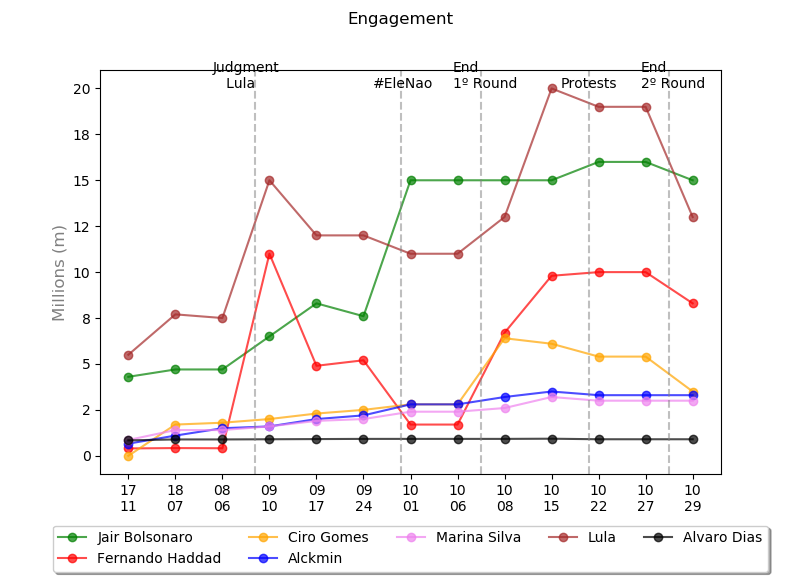
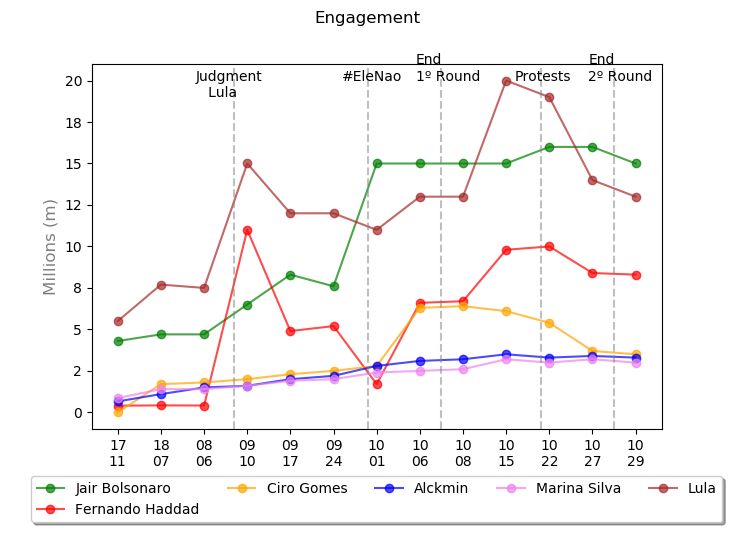
correlacao

diff --git a/Graphics/Code/graphic.py b/Graphics/Code/graphic.py
@@ -226,13 +226,14 @@ def cal_dataframe_error(vector_dFrame, v_facebook, v_ibope, v_dfolha, label):
     return vector_dFrame
 
 def plot_graph(name, data_frame, line, col, range_ini, range_fim, count_x, firstitle, set_subtitle, all_subtitle, set_result, figsizeX, figsizeY,
- legend_posX, legend_posY, plot_error = True, plot_event = True, hspace=0):    
+ legend_posX, legend_posY, plot_error = True, plot_event = True, hspace=0, v_range_ini = [], v_range_fim = []):    
     
     fig = plt.figure(figsize=(figsizeX, figsizeY))    
     set_result_aux = set_result
     subtitle_aux = set_subtitle    
     text_1Round = "1º round"
-    text_2Round = "2º round"    
+    text_2Round = "2º round"   
+    count_line_to_axis = 0 
     count_subtitle = 0    
     legend_result = ""
     vector_dFrame = []
@@ -244,7 +245,11 @@ def plot_graph(name, data_frame, line, col, range_ini, range_fim, count_x, first
    
     for d in data_frame:
         G = fig.add_subplot(line, col, pos)
-        
+
+        if len(v_range_fim) > 0:
+            range_fim = v_range_fim[pos - 1]
+            range_ini = v_range_ini[pos - 1]
+
         for g in d.drop('x', axis=1):               
             if(g == 'calc_1round_pool'):
                 if(d[g].values[0] != 0 and d[g].values[0] != -100):
@@ -315,11 +320,17 @@ def plot_graph(name, data_frame, line, col, range_ini, range_fim, count_x, first
         count_subtitle += 1
         if(count_subtitle == col):
             set_subtitle = subtitle_aux
-            count_subtitle = 0
+            count_subtitle = 0            
+            count_line_to_axis =+ 1
         
+      
+        # if len(v_scale) > 0:
+        #     G.set_ylim(range_ini,v_scale[count_line_to_axis])
+        # else:
         G.set_ylim(range_ini,range_fim)
+
         set_result_aux = True
-        pos += 1 
+        pos += 1         
             
     if(hspace != 0):
         plt.subplots_adjust(hspace=hspace)
@@ -348,24 +359,24 @@ def plot_gender():
 def plot_region():
         
     count_x = len(models.data_reader.candidates[i_bolsonaro].facebook_sul) 
+    
+    error_1 = plot_graph("region_bolsonaro.png", GFrame.Region.data_frame_bolsonaro, 2, 2, 10, 60, count_x, "Jair Bolsonaro", False, True, True, 18, 10, -0.1, -0.19, True, True, 0, [40, 10, 5, 5], [65, 40, 30, 30])
+    plot_graph("region_bolsonaro_error.png", error_1, 2, 2, -50, 90, count_x, "Jair Bolsonaro - Variation Polls", False, True, True, 18, 10, -0.1, -0.19, False, False, 0, [-20, -20, -40, -40], [30, 80, 30, 40] )
 
-    error_1 = plot_graph("region_bolsonaro.png", GFrame.Region.data_frame_bolsonaro, 2, 2, 5, 60, count_x, "Jair Bolsonaro", False, True, True, 18, 10, -0.1, -0.19)
-    plot_graph("region_bolsonaro_error.png", error_1, 2, 2, -50, 90, count_x, "Jair Bolsonaro - Variation Polls", False, True, True, 18, 10, -0.1, -0.19, False, False)
+    error_2 = plot_graph("region_haddad.png", GFrame.Region.data_frame_haddad, 2, 2, 0, 90, count_x, "Fernando Haddad", False, True, True, 18, 10, -0.1, -0.19, True, True, 0, [20, 10, 0, 0], [90, 60, 25, 25])
+    plot_graph("region_haddad_error.png", error_2, 2, 2, -75, 90, count_x, "Fernando Haddad - Variation Polls", False, True, True, 18, 10, -0.1, -0.19, False, False, 0, [-40, -60, -50, -50], [85, 40, 60, 60])
 
-    error_2 = plot_graph("region_haddad.png", GFrame.Region.data_frame_haddad, 2, 2, 5, 90, count_x, "Fernando Haddad", False, True, True, 18, 10, -0.1, -0.19)
-    plot_graph("region_haddad_error.png", error_2, 2, 2, -75, 90, count_x, "Fernando Haddad - Variation Polls", False, True, True, 18, 10, -0.1, -0.19, False, False)
+    error_3 = plot_graph("region_ciro.png", GFrame.Region.data_frame_ciro, 2, 2, 0, 60, count_x, "Ciro Gomes", False, True, True, 18, 10, -0.1, -0.19, True, True, 0, [25, 20, 0, 0], [60, 50, 25, 25])
+    plot_graph("region_ciro_error.png", error_3, 2, 2, -50, 125, count_x, "Ciro Gomes - Variation Polls", False, True, True, 18, 10, -0.1, -0.19, False, False, 0, [-20, -40, -20, -20], [80, 30, 80, 120])
 
-    error_3 = plot_graph("region_ciro.png", GFrame.Region.data_frame_ciro, 2, 2, 5, 60, count_x, "Ciro Gomes", False, True, True, 18, 10, -0.1, -0.19)
-    plot_graph("region_ciro_error.png", error_3, 2, 2, -50, 125, count_x, "Ciro Gomes - Variation Polls", False, True, True, 18, 10, -0.1, -0.19, False, False)
+    error_4 = plot_graph("region_marina.png", GFrame.Region.data_frame_marina, 2, 2, 5, 60, count_x, "Marina Silva", False, True, True, 18, 10, -0.1, -0.19, True, True, 0, [30, 20, 10, 5], [60, 45, 35, 30])
+    plot_graph("region_marina_error.png", error_4, 2, 2, -50, 150, count_x, "Marina Silva - Variation Polls", False, True, True, 18, 10, -0.1, -0.19, False, False, 0, [-20, -40, -40, -15], [40, 30, 50, 140])
 
-    error_4 = plot_graph("region_marina.png", GFrame.Region.data_frame_marina, 2, 2, 5, 60, count_x, "Marina Silva", False, True, True, 18, 10, -0.1, -0.19)
-    plot_graph("region_marina_error.png", error_4, 2, 2, -50, 150, count_x, "Marina Silva - Variation Polls", False, True, True, 18, 10, -0.1, -0.19, False, False)
+    error_5 = plot_graph("region_alckmin.png", GFrame.Region.data_frame_alckmin, 2, 2, 0, 85, count_x, "Geraldo Alckmin", False, True, True, 18, 10, -0.1, -0.19, True, True, 0, [30, 5, 0, 0], [85, 40, 25, 25])
+    plot_graph("region_alckmin_error.png", error_5, 2, 2, -50, 100, count_x, "Geraldo Alckmin - Variation Polls", False, True, True, 18, 10, -0.1, -0.19, False, False, 0, [-10, -40, -40, -25], [30, 100, 30, 100])
 
-    error_5 = plot_graph("region_alckmin.png", GFrame.Region.data_frame_alckmin, 2, 2, 5, 85, count_x, "Geraldo Alckmin", False, True, True, 18, 10, -0.1, -0.19)
-    plot_graph("region_alckmin_error.png", error_5, 2, 2, -50, 100, count_x, "Geraldo Alckmin - Variation Polls", False, True, True, 18, 10, -0.1, -0.19, False, False)
-
-    error_6 = plot_graph("region_alvaro.png", GFrame.Region.data_frame_alvaro, 2, 2, 0, 70, count_x, "Alvaro Dias", False, True, True, 18, 10, -0.1, -0.19)
-    plot_graph("region_alvaro_error.png", error_6, 2, 2, -50, 200, count_x, "Alvaro Dias - Variation Polls", False, True, True, 18, 10, -0.1, -0.19, False, False)
+    error_6 = plot_graph("region_alvaro.png", GFrame.Region.data_frame_alvaro, 2, 2, 0, 70, count_x, "Alvaro Dias", False, True, True, 18, 10, -0.1, -0.19, True, True, 0, [10, 0, 0, 10], [60, 40, 30, 70])
+    plot_graph("region_alvaro_error.png", error_6, 2, 2, -50, 200, count_x, "Alvaro Dias - Variation Polls", False, True, True, 18, 10, -0.1, -0.19, False, False, 0, [-10, -30, -50, -55], [200, 80, 150, 30])
     
     # plot_graph("region_lula.png", data_frame_lula, 2, 2, 5, 60, count_x, "Lula", False, True, True, 18, 10)
 
@@ -452,7 +463,7 @@ def plot_like():
     plt.plot('x', 'alckmin_like', data=df, marker='o', color="blue", alpha=0.7, label='Alckmin')
     plt.plot('x', 'marina_like', data=df, marker='o', color="violet", alpha=0.7, label='Marina Silva')
     plt.plot('x', 'lula_like', data=df, marker='o', color="brown", alpha=0.7, label='Lula')
-    plt.plot('x', 'alvaro_like', data=df, marker='o', color="black", alpha=0.7, label='Alvaro Dias')
+    # plt.plot('x', 'alvaro_like', data=df, marker='o', color="black", alpha=0.7, label='Alvaro Dias')
     
     plt.xticks(range(0, count_x), xticks)
 
@@ -497,7 +508,7 @@ def talking_about():
     plt.plot('x', 'alckmin_talking', data=df, marker='o', color="blue", alpha=0.7, label='Alckmin')
     plt.plot('x', 'marina_talking', data=df, marker='o', color="violet", alpha=0.7, label='Marina Silva')
     plt.plot('x', 'lula_talking', data=df, marker='o', color="brown", alpha=0.7, label='Lula')
-    plt.plot('x', 'alvaro_talking', data=df, marker='o', color="black", alpha=0.7, label='Alvaro Dias')    
+    # plt.plot('x', 'alvaro_talking', data=df, marker='o', color="black", alpha=0.7, label='Alvaro Dias')    
     plt.xticks(range(0, count_x), xticks)
 
     #Eventos    
@@ -510,9 +521,9 @@ def talking_about():
             plt.text(x = dic["x"] - dic["negative"], y =  4700000 - 3, s = dic["text"], size = 10)  
 
     plt.axvline(x= pos_result_1_round - 0.5, color='gray', linestyle='--', alpha=0.5) 
-    plt.text(x = pos_result_1_round - 0.5 - dic["negative"], y =  4800000 - 12000, s = 'End\n1º Round', size = 10)  
+    plt.text(x = pos_result_1_round - 0.5 - dic["negative"], y =  4800000 - 12008, s = 'End\n1º Round', size = 10)  
     plt.axvline(x= pos_result_2_round - 0.5, color='gray', linestyle='--', alpha=0.5) 
-    plt.text(x = pos_result_2_round - 0.5 - dic["negative"], y =  4800000 - 10000, s = 'End\n2º Round', size = 10)  
+    plt.text(x = pos_result_2_round - 0.6 - dic["negative"], y =  4800000 - 10000, s = 'End\n2º Round', size = 10)  
 
     plt.legend(loc='upper center', bbox_to_anchor=(0.5, -0.1), fancybox=True, shadow=True, ncol=5)
     ax.yaxis.set_major_formatter(FuncFormatter(lambda x, p: formatter_millions(int(x))))
@@ -541,7 +552,7 @@ def plot_engagement():
     plt.plot('x', 'alckmin_engagement', data=df, marker='o', color="blue", alpha=0.7, label='Alckmin')
     plt.plot('x', 'marina_engagement', data=df, marker='o', color="violet", alpha=0.7, label='Marina Silva')
     plt.plot('x', 'lula_engagement', data=df, marker='o', color="brown", alpha=0.7, label='Lula')
-    plt.plot('x', 'alvaro_engagement', data=df, marker='o', color="black", alpha=0.7, label='Alvaro Dias')
+    # plt.plot('x', 'alvaro_engagement', data=df, marker='o', color="black", alpha=0.7, label='Alvaro Dias')
     
     plt.xticks(range(0, count_x), xticks)
 
@@ -550,7 +561,7 @@ def plot_engagement():
         plt.axvline(x=dic["x"], color='gray', linestyle='--', alpha=0.5)
 
         if(dic["text"] == "Judgment\n   Lula "):
-            plt.text(x = dic["x"] - dic["negative"], y =  20000000 - 8, s = dic["text"], size = 10)  
+            plt.text(x = dic["x"] - dic["negative"], y =  19000000 - 8, s = dic["text"], size = 10)  
         else:               
             plt.text(x = dic["x"] - dic["negative"], y =  20000000 - 5, s = dic["text"], size = 10)  
 
@@ -564,3 +575,74 @@ def plot_engagement():
     plt.ylabel("Millions (m)", multialignment='center', color='gray', fontsize=12)
 
     plt.show()
+
+def cal_correlation():
+
+    candidates = ["Alvaro Dias", "Lula"]
+
+    #Até o primeiro turno - Bom (0 - 9)
+    #Julgamento Lula até #EleNao - Bom (2 - 7)
+    #Segundo Turno - Ruim (8 - 13)
+    #Elenao ate Primeiro Turno - Ruim (5 - 9) ou (6 - 9)
+    #Inicio até ele nao - Ruim(0 - 7)
+    #Tudo- Ruim(0 - 13)
+    for c in models.data_reader.candidates:
+
+        corr, p_value = spearmanr(models.data_reader.candidates[i_ciro].dfolha_male[1:4], models.data_reader.candidates[i_ciro].facebook_male[1:4])
+
+        if(c.name not in candidates):
+            i = models.return_index(c.name)
+
+            if(False):
+                qtd_ptos = pos_result_2_round + 1
+                pt_ini = 4
+            else:
+                qtd_ptos = 4
+                pt_ini = 0
+
+            # if(c.name == "Ciro Gomes"):
+            #     pt_ini = 1
+
+            a = models.data_reader.candidates[i].dfolha_male[pt_ini:qtd_ptos]
+            print(c.name)
+            corr, p_value = spearmanr(models.data_reader.candidates[i].dfolha_male[pt_ini:qtd_ptos], models.data_reader.candidates[i].facebook_male[pt_ini:qtd_ptos])
+            print('DFolha Male: ' + str(corr))
+            corr, p_value = spearmanr(models.data_reader.candidates[i].dfolha_female[pt_ini:qtd_ptos], models.data_reader.candidates[i].facebook_female[pt_ini:qtd_ptos])
+            print('DFolha Female: ' + str(corr))
+            corr, p_value = spearmanr(models.data_reader.candidates[i].ibope_male[pt_ini:qtd_ptos], models.data_reader.candidates[i].facebook_male[pt_ini:qtd_ptos])
+            print('IBOPE Male: ' + str(corr))
+            corr, p_value = spearmanr(models.data_reader.candidates[i].ibope_female[pt_ini:qtd_ptos], models.data_reader.candidates[i].facebook_female[pt_ini:qtd_ptos])
+            print('IBOPE Female: ' + str(corr))
+
+            # corr, p_value = spearmanr(models.data_reader.candidates[i].dfolha_nordeste[pt_ini:qtd_ptos], models.data_reader.candidates[i].facebook_nordeste[pt_ini:qtd_ptos])
+            # print('DFolha Nordeste: ' + str(corr))
+            # corr, p_value = spearmanr(models.data_reader.candidates[i].ibope_nordeste[pt_ini:qtd_ptos], models.data_reader.candidates[i].facebook_nordeste[pt_ini:qtd_ptos])
+            # print('IBOPE Nordeste: ' + str(corr))
+
+            # corr, p_value = spearmanr(models.data_reader.candidates[i].dfolha_sudeste[pt_ini:qtd_ptos], models.data_reader.candidates[i].facebook_sudeste[pt_ini:qtd_ptos])
+            # print('DFolha Sudeste: ' + str(corr))
+            # corr, p_value = spearmanr(models.data_reader.candidates[i].ibope_sudeste[pt_ini:qtd_ptos], models.data_reader.candidates[i].facebook_sudeste[pt_ini:qtd_ptos])
+            # print('IBOPE Sudeste: ' + str(corr))
+
+            # corr, p_value = spearmanr(models.data_reader.candidates[i].dfolha_sul[pt_ini:qtd_ptos], models.data_reader.candidates[i].facebook_sul[pt_ini:qtd_ptos])
+            # print('DFolha Sul: ' + str(corr))
+            # corr, p_value = spearmanr(models.data_reader.candidates[i].ibope_sul[pt_ini:qtd_ptos], models.data_reader.candidates[i].facebook_sul[pt_ini:qtd_ptos])
+            # print('IBOPE Sul: ' + str(corr))
+
+            # corr, p_value = spearmanr(models.data_reader.candidates[i].dfolha_norte_coeste[pt_ini:qtd_ptos], models.data_reader.candidates[i].facebook_norte_coeste[pt_ini:qtd_ptos])
+            # print('DFolha Centro-Oeste/Norte: ' + str(corr))
+            # corr, p_value = spearmanr(models.data_reader.candidates[i].ibope_norte_coeste[pt_ini:qtd_ptos], models.data_reader.candidates[i].facebook_norte_coeste[pt_ini:qtd_ptos])
+            # print('IBOPE Centro-Oeste/Norte: ' + str(corr))
+
+            # corr, p_value = spearmanr(models.data_reader.candidates[i].facebook_engagement, models.data_reader.candidates[i].facebook_likes)
+            # print('Engajamento/Likes: ' + str(corr)) 
+
+            # corr, p_value = spearmanr(models.data_reader.candidates[i].facebook_talking_about, models.data_reader.candidates[i].facebook_likes)
+            # print('TalkAbout/Likes: ' + str(corr)) 
+
+            # corr, p_value = spearmanr(models.data_reader.candidates[i].facebook_talking_about, models.data_reader.candidates[i].facebook_engagement)
+            # print('TalkAbout/Engajamento: ' + str(corr)) 
+            
+    
+    # corr, p_value = spearmanr(models.data_reader.candidates[i_alvaro].dfolha_male, models.data_reader.candidates[i_ciro].facebook_male)
+    # print(corr)

diff --git a/Graphics/Code/data_frames.py b/Graphics/Code/data_frames.py
@@ -104,21 +104,22 @@ class Gender:
         'Geraldo Alckmin-Female-Facebook': models.data_reader.candidates[i_alckmin].facebook_female,
         'Geraldo Alckmin-Female-Distribuition Facebook': models.data_distribuition.facebook_gender_female,
         'Geraldo Alckmin-Female-Distribuition Census': models.data_distribuition.census_gender_female
-    }),
-    pd.DataFrame(
-    {
-        'x': range(0, len(models.data_reader.candidates[i_alvaro].dfolha_male)), 
-        'Alvaro Dias-Male-DataFolha': models.data_reader.candidates[i_alvaro].dfolha_male, 'Alvaro Dias-Male-IBOPE': models.data_reader.candidates[i_alvaro].ibope_male,
-        'Alvaro Dias-Male-Facebook': models.data_reader.candidates[i_alvaro].facebook_male,
-        'Alvaro Dias-Male-Distribuition Facebook': models.data_distribuition.facebook_gender_male,
-        'Alvaro Dias-Male-Distribuition Census': models.data_distribuition.census_gender_male
-    }),
-    pd.DataFrame({'x': range(0, len(models.data_reader.candidates[i_alvaro].dfolha_male)), 
-        'Alvaro Dias-Female-DataFolha': models.data_reader.candidates[i_alvaro].dfolha_female, 'Alvaro Dias-Female-IBOPE': models.data_reader.candidates[i_alvaro].ibope_female,
-        'Alvaro Dias-Female-Facebook': models.data_reader.candidates[i_alvaro].facebook_female,
-        'Alvaro Dias-Female-Distribuition Facebook': models.data_distribuition.facebook_gender_female,
-        'Alvaro Dias-Female-Distribuition Census': models.data_distribuition.census_gender_female
-    })]
+    })
+    # ,pd.DataFrame(
+    # {
+    #     'x': range(0, len(models.data_reader.candidates[i_alvaro].dfolha_male)), 
+    #     'Alvaro Dias-Male-DataFolha': models.data_reader.candidates[i_alvaro].dfolha_male, 'Alvaro Dias-Male-IBOPE': models.data_reader.candidates[i_alvaro].ibope_male,
+    #     'Alvaro Dias-Male-Facebook': models.data_reader.candidates[i_alvaro].facebook_male,
+    #     'Alvaro Dias-Male-Distribuition Facebook': models.data_distribuition.facebook_gender_male,
+    #     'Alvaro Dias-Male-Distribuition Census': models.data_distribuition.census_gender_male
+    # }),
+    # pd.DataFrame({'x': range(0, len(models.data_reader.candidates[i_alvaro].dfolha_male)), 
+    #     'Alvaro Dias-Female-DataFolha': models.data_reader.candidates[i_alvaro].dfolha_female, 'Alvaro Dias-Female-IBOPE': models.data_reader.candidates[i_alvaro].ibope_female,
+    #     'Alvaro Dias-Female-Facebook': models.data_reader.candidates[i_alvaro].facebook_female,
+    #     'Alvaro Dias-Female-Distribuition Facebook': models.data_distribuition.facebook_gender_female,
+    #     'Alvaro Dias-Female-Distribuition Census': models.data_distribuition.census_gender_female
+    # })
+    ]
 
 class Region:
     data_frame_bolsonaro = [pd.DataFrame(

diff --git a/Graphics/Code/main.py b/Graphics/Code/main.py
@@ -13,9 +13,11 @@ def main():
     # graphic.plot_age()
     #  graphic.plot_education()
     
-    graphic.plot_like()
+    # graphic.plot_like()
     # graphic.talking_about()
     # graphic.plot_engagement()
+
+    graphic.cal_correlation()
 
 if __name__ == "__main__":
     main()
